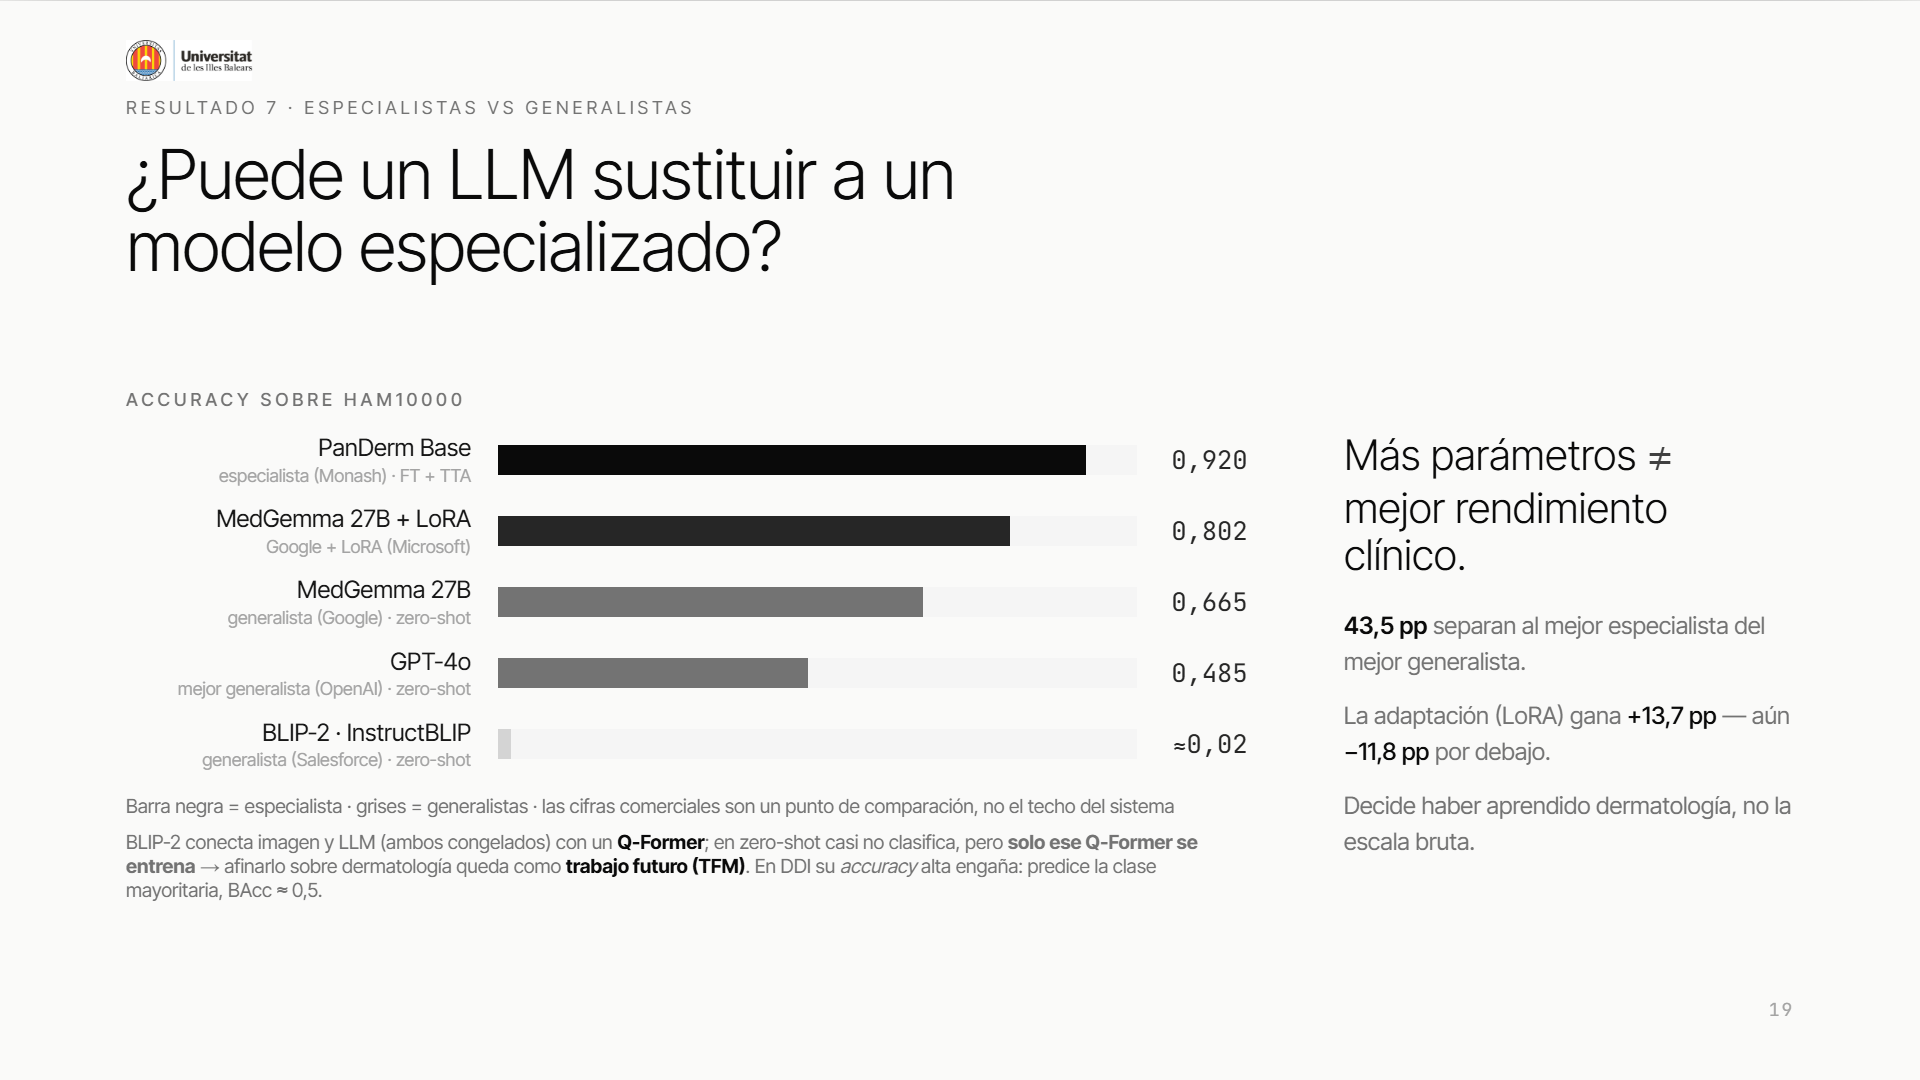
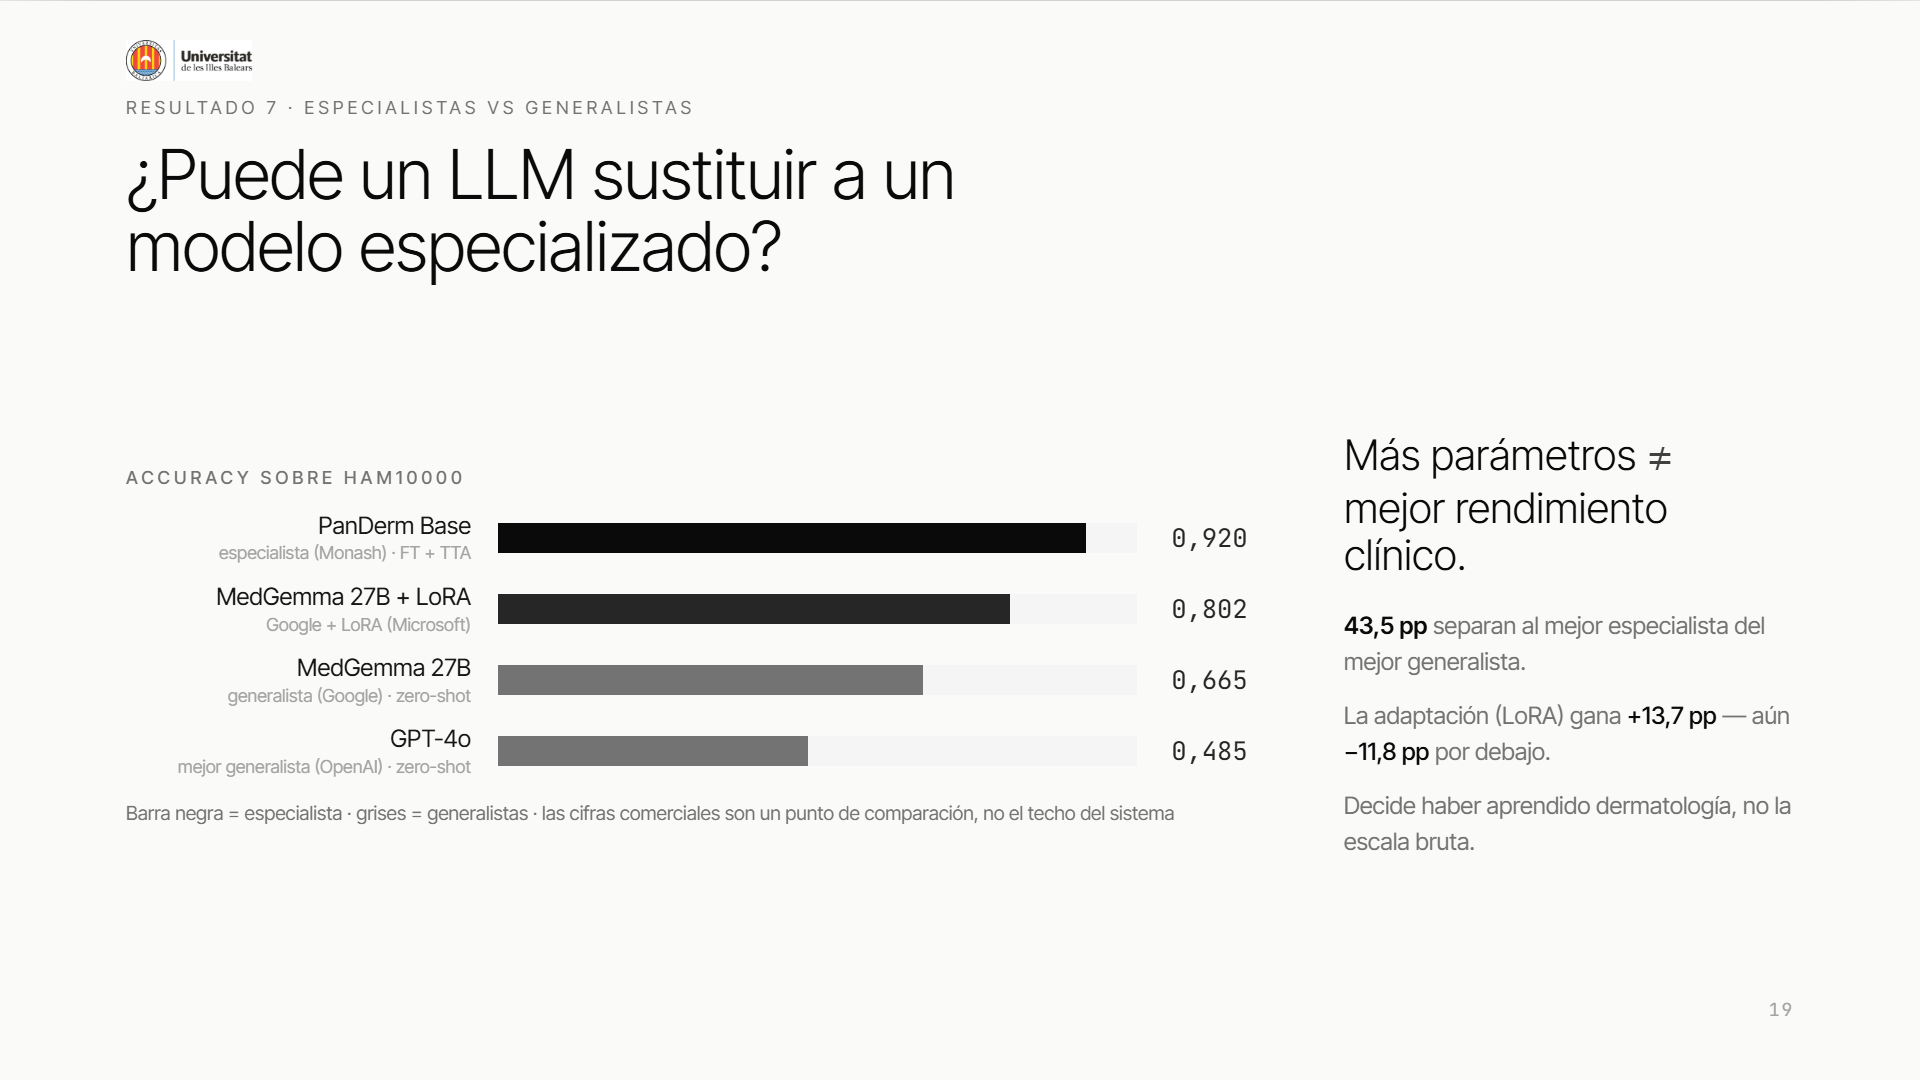
deck slide19: quita la barra de BLIP-2 y la nota del Q-Former

diff --git a/deck/index.html b/deck/index.html
@@ -763,14 +763,8 @@
             <div class="mtrack"><div class="mfill" style="width:48.5%; background:var(--ink500)"></div></div>
             <div class="mv mono">0,485</div>
           </div>
-          <div class="mrow">
-            <div class="ml"><div class="mn">BLIP-2 · InstructBLIP</div><div class="md">generalista (Salesforce) · zero-shot</div></div>
-            <div class="mtrack"><div class="mfill" style="width:2%; background:var(--ink300)"></div></div>
-            <div class="mv mono">≈0,02</div>
-          </div>
         </div>
         <div class="muted" style="margin-top:16px; font-size:13px">Barra negra = especialista · grises = generalistas · las cifras comerciales son un punto de comparación, no el techo del sistema</div>
-        <div class="muted" style="margin-top:8px; font-size:13px">BLIP-2 conecta imagen y LLM (ambos congelados) con un <b style="color:var(--ink)">Q-Former</b>; en zero-shot casi no clasifica, pero <b>solo ese Q-Former se entrena</b> → afinarlo sobre dermatología queda como <b style="color:var(--ink)">trabajo futuro (TFM)</b>. En DDI su <i>accuracy</i> alta engaña: predice la clase mayoritaria, BAcc ≈ 0,5.</div>
       </div>
       <div style="flex:0 0 27%">
         <div class="biglead" style="font-size:28px; max-width:14ch">Más parámetros <span class="serif">≠</span> mejor rendimiento clínico.</div>
